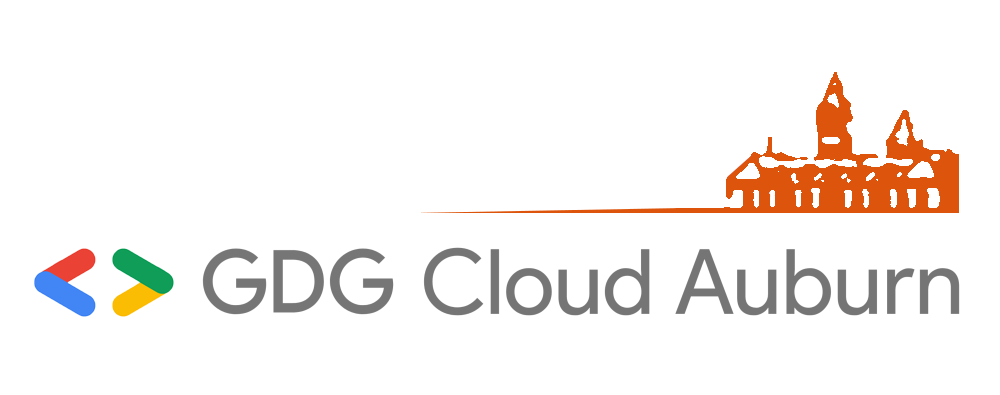
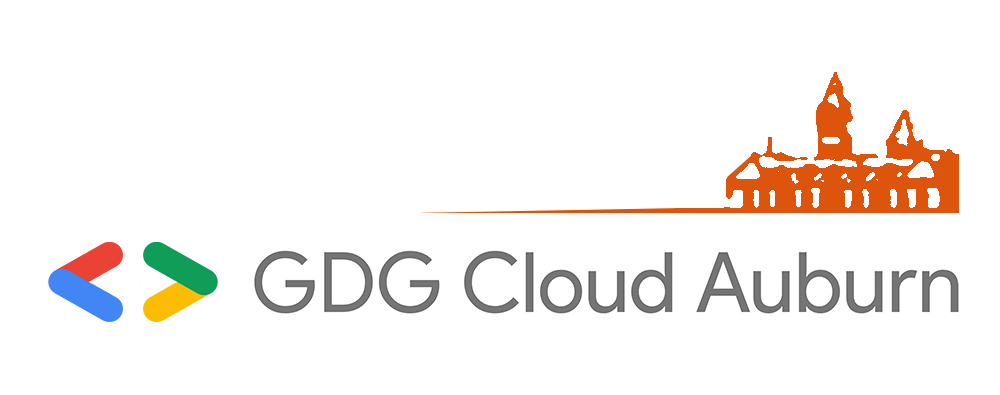
Home page clean up done! :)

Changed region(s): [[0.031, 0.6076, 0.961, 0.8203]]

diff --git a/src/pages/home-page.html b/src/pages/home-page.html
@@ -140,7 +140,7 @@
       hide-logo
     >
       <div class="home-content" layout vertical center>
-        <plastic-image class="hero-logo" srcset="/images/devfest-auburn19.png" alt="{$ title $}"></plastic-image>
+        <plastic-image class="hero-logo" srcset="/images/devfest_auburn19.png" alt="{$ title $}"></plastic-image>
         <div class="info-items highlight-font">
           <div class="info-item">{$ location.city $}. {$ dates $}</div>
           <div class="info-item">{$ heroSettings.home.description $}</div>

diff --git a/src/hoverboard-app.html b/src/hoverboard-app.html
@@ -144,7 +144,7 @@
 
       <app-drawer id="drawer" slot="drawer" opened="[[ui.isDrawerOpened]]" swipe-open>
         <app-toolbar layout vertical start>
-          <plastic-image class="toolbar-logo" srcset="/images/logo-monochrome.svg" alt="{$ title $}"></plastic-image>
+          <plastic-image class="toolbar-logo" srcset="/images/gdg_cloud_auburn.png" alt="{$ title $}"></plastic-image>
           <h2 class="dates">{$ dates $}</h2>
           <h3 class="location">{$ location.short $}</h3>
         </app-toolbar>

diff --git a/src/elements/footer-nav.html b/src/elements/footer-nav.html
@@ -67,7 +67,7 @@
       <a href="{$ organizer.url $}" target="_blank" rel="noopener noreferrer">
         <plastic-image
           class="footer-logo"
-          srcset="../../images/organizer-logo.svg"
+          srcset="../../images/gdg_cloud_auburn.png"
           sizing="contain"
           alt="{$ organizer.name $}"
           lazy-load
